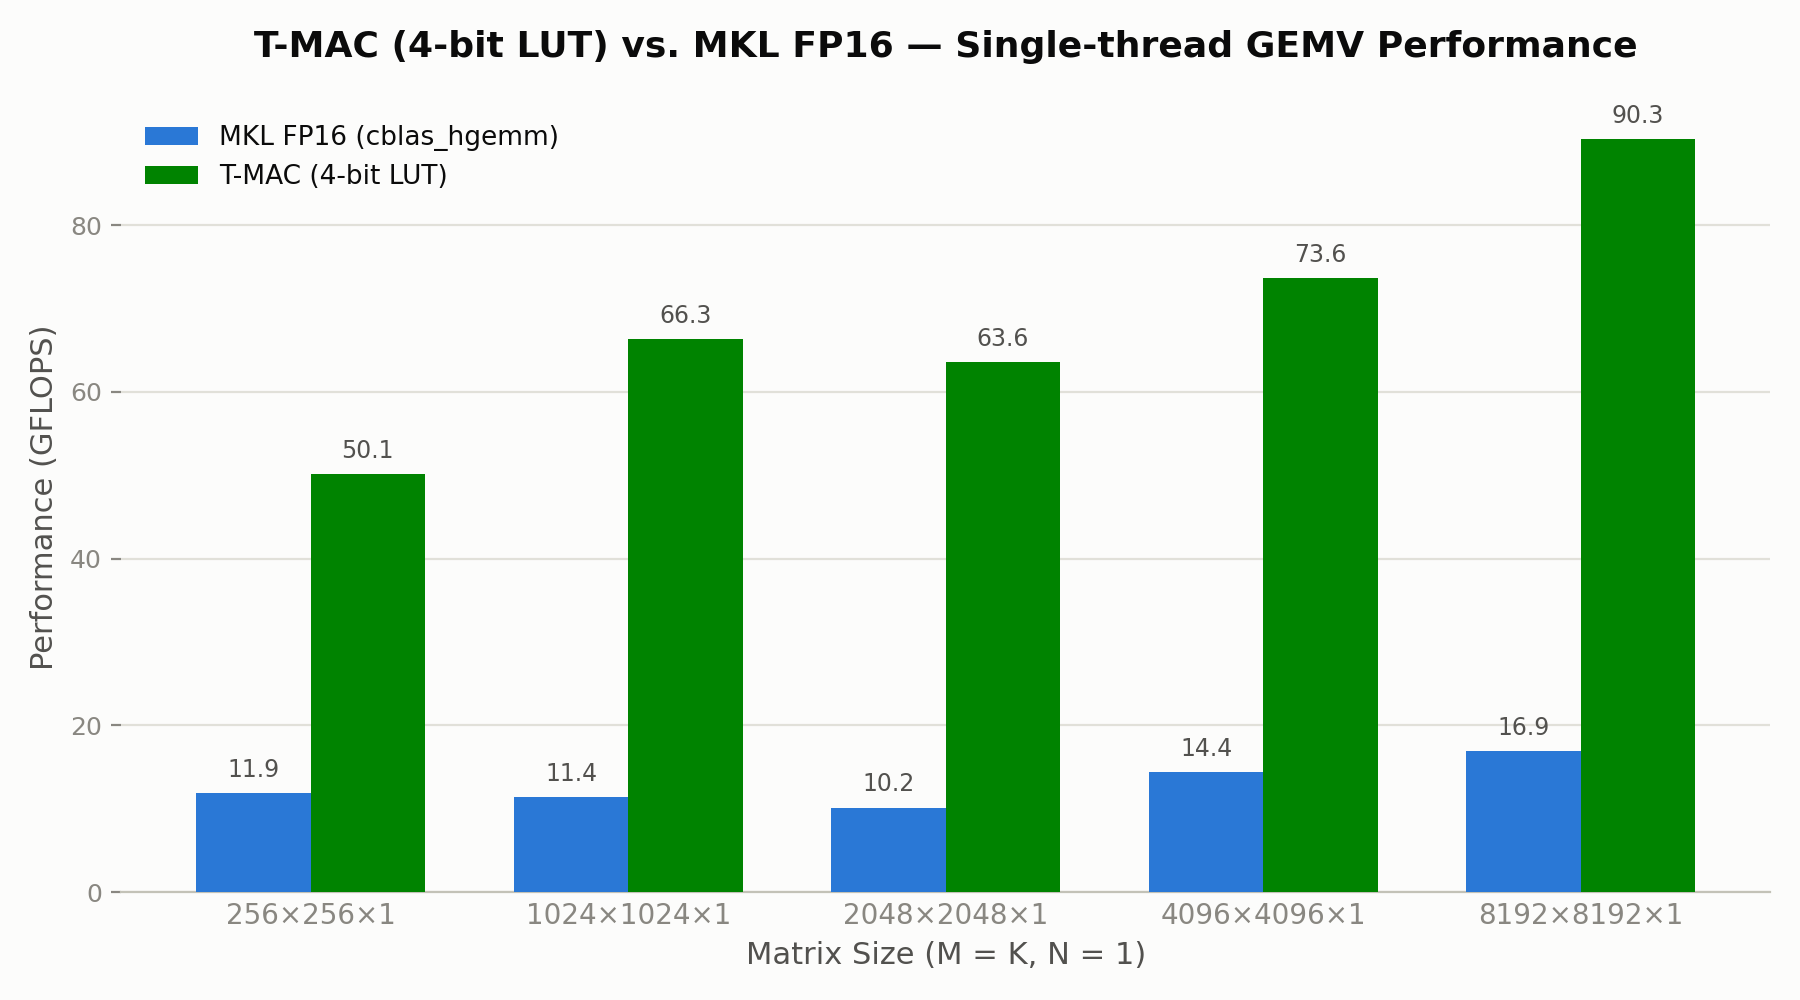
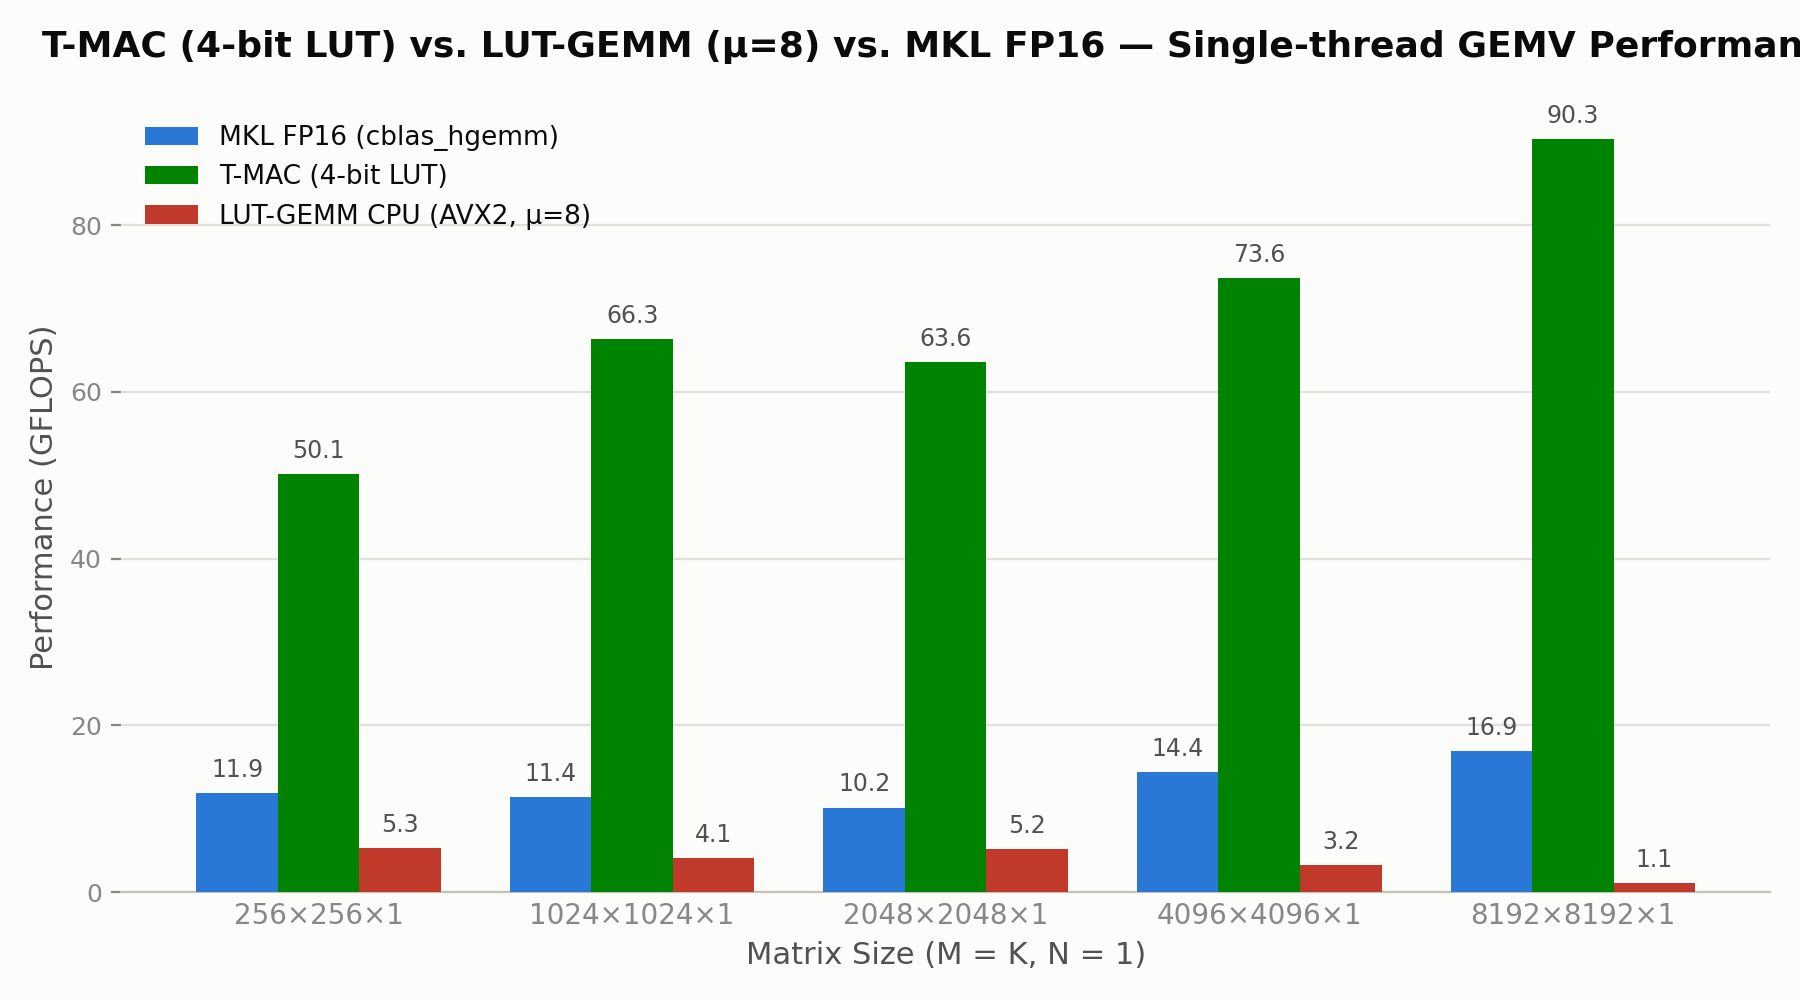
feat: add chart in the readme

diff --git a/scripts/plot_benchmark.py b/scripts/plot_benchmark.py
@@ -22,6 +22,7 @@ THEMES = {
         baseline="#c3c2b7",
         mkl="#2a78d6",
         tmac="#008300",
+        lutgemm="#c0392b",
     ),
     "dark": dict(
         surface="#1a1a19",
@@ -32,6 +33,7 @@ THEMES = {
         baseline="#383835",
         mkl="#3987e5",
         tmac="#008300",
+        lutgemm="#e0564a",
     ),
 }
 
@@ -44,6 +46,7 @@ def load_rows(csv_path):
                 size=int(r["matrix_size"]),
                 mkl_gflops=float(r["mkl_gflops"]),
                 tmac_gflops=float(r["tmac_gflops"]),
+                lutgemm_gflops=float(r["lutgemm_gflops"]),
             ))
     rows.sort(key=lambda r: r["size"])
     return rows
@@ -57,27 +60,32 @@ def render(rows, theme_name, out_path):
     labels = [f"{r['size']}×{r['size']}×1" for r in rows]
     mkl_vals = [r["mkl_gflops"] for r in rows]
     tmac_vals = [r["tmac_gflops"] for r in rows]
+    lutgemm_vals = [r["lutgemm_gflops"] for r in rows]
 
     x = range(len(rows))
-    width = 0.36
+    width = 0.26
 
     fig, ax = plt.subplots(figsize=(9, 5), dpi=200)
     fig.patch.set_facecolor(t["surface"])
     ax.set_facecolor(t["surface"])
 
     bars_mkl = ax.bar(
-        [i - width / 2 for i in x], mkl_vals, width,
+        [i - width for i in x], mkl_vals, width,
         label="MKL FP16 (cblas_hgemm)", color=t["mkl"], zorder=3,
     )
     bars_tmac = ax.bar(
-        [i + width / 2 for i in x], tmac_vals, width,
+        list(x), tmac_vals, width,
         label="T-MAC (4-bit LUT)", color=t["tmac"], zorder=3,
+    )
+    bars_lutgemm = ax.bar(
+        [i + width for i in x], lutgemm_vals, width,
+        label="LUT-GEMM CPU (AVX2, μ=8)", color=t["lutgemm"], zorder=3,
     )
 
     ax.set_ylabel("Performance (GFLOPS)", color=t["text_secondary"], fontsize=11)
     ax.set_xlabel("Matrix Size (M = K, N = 1)", color=t["text_secondary"], fontsize=11)
     ax.set_title(
-        "T-MAC (4-bit LUT) vs. MKL FP16 — Single-thread GEMV Performance",
+        "T-MAC (4-bit LUT) vs. LUT-GEMM (μ=8) vs. MKL FP16 — Single-thread GEMV Performance",
         color=t["text_primary"], fontsize=13, fontweight="bold", pad=16,
     )
     ax.set_xticks(list(x))
@@ -109,6 +117,7 @@ def render(rows, theme_name, out_path):
 
     direct_labels(bars_mkl)
     direct_labels(bars_tmac)
+    direct_labels(bars_lutgemm)
 
     legend = ax.legend(
         loc="upper left", frameon=False, fontsize=9.5,

diff --git a/README.md b/README.md
@@ -134,6 +134,8 @@ g++ -g -O1 -mavx2 -mfma -fsanitize=address,undefined lut_gemm_avx2_benchmark.cpp
 
 測試規模：`M = K = {256, 1024, 2048, 4096, 8192}`，`N = 1`，單執行緒，T-MAC/MKL 每組取 100 次迭代平均，LUT-GEMM 純量版因速度較慢取 10 次迭代平均。
 
+![Benchmark Chart - Intel Ultra 7 258V](assets/benchmark_chart_light.png)
+
 ### T-MAC AVX2 GEMV
 
 | Matrix Size | Latency (ms) | Performance (GFLOPS) | 正確性驗證 |